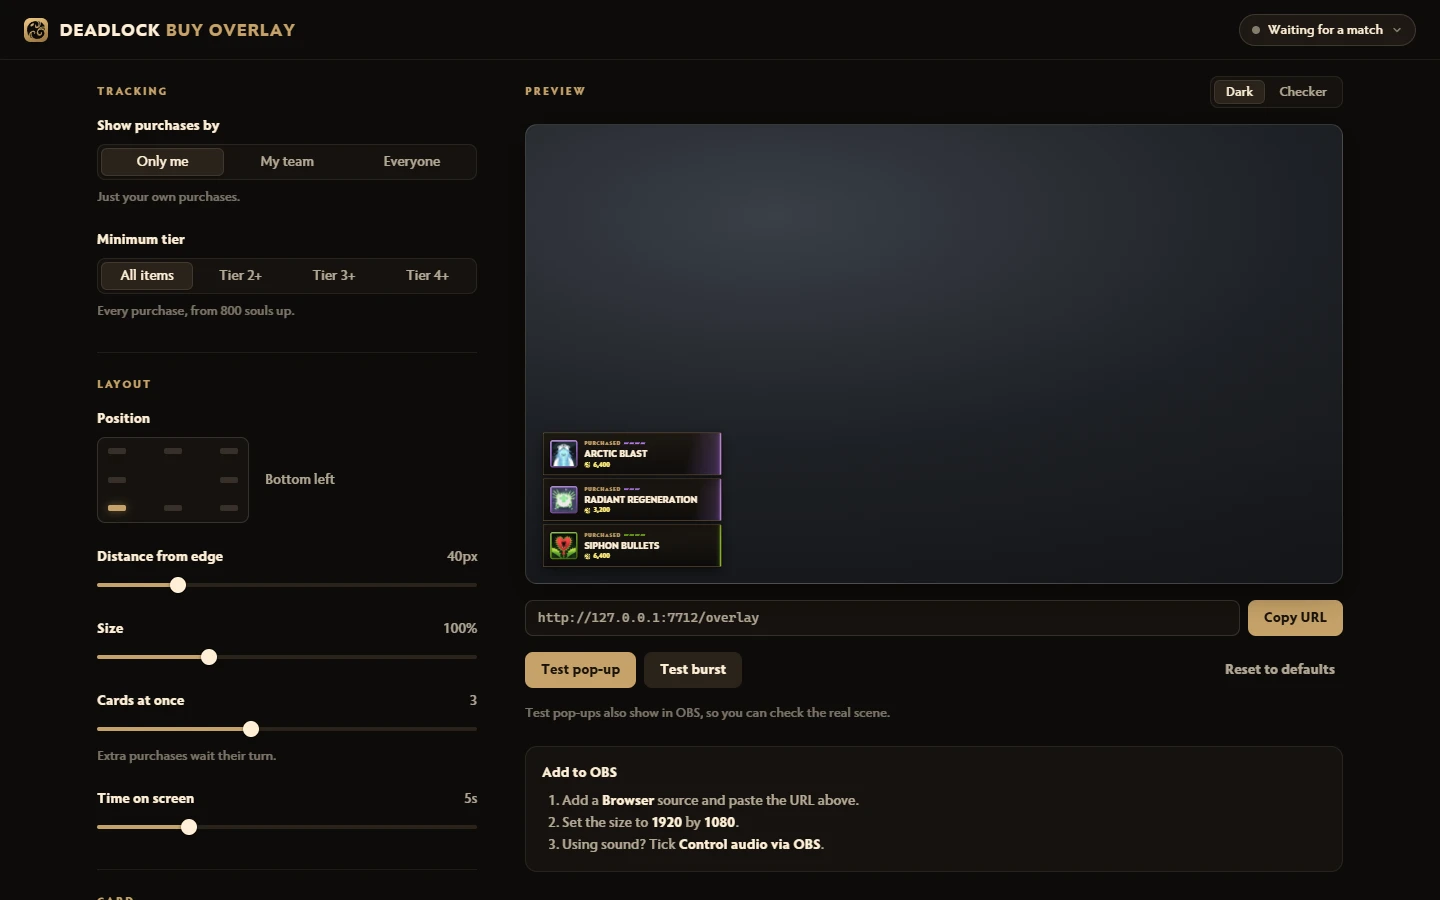
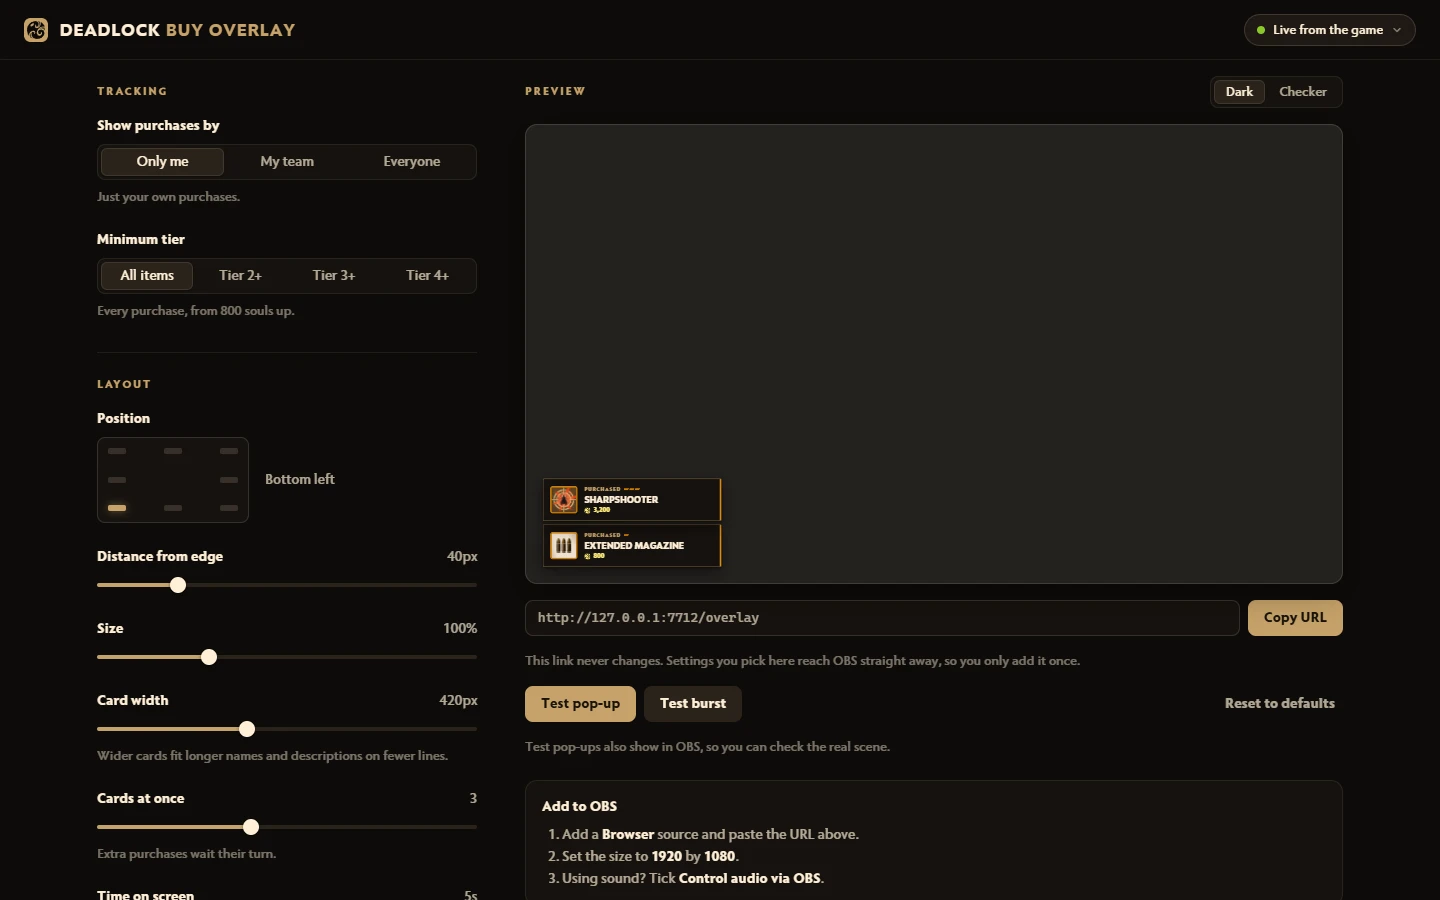
Show v0.3.0 screenshots and instant pop-ups
Replace the screenshots with the flat-colour look, add the new layouts
image, add the -condebug step to the install guide, and describe the
optional bridge mod for instant pop-ups.

diff --git a/README.md b/README.md
@@ -8,6 +8,10 @@ Pick a style, where the cards sit, how long they stay, and what they show:
 
 ![Deadlock, Glass and Minimal card styles](screenshots/styles.webp)
 
+Use a full card, one slim line, or just the item icon, with square, rounded, pill or angled corners:
+
+![Full, Compact and Icon only layouts](screenshots/layouts.webp)
+
 | Control page | First-run setup |
 | --- | --- |
 | ![Control page with settings and live preview](screenshots/control.webp) | ![Setup step for choosing what pops up](screenshots/setup.webp) |
@@ -17,12 +21,19 @@ Pick a style, where the cards sit, how long they stay, and what they show:
 1. Download the zip from the [latest release](https://github.com/negativeblueprint/deadlock-buy-overlay-releases/releases/latest).
 2. Extract it anywhere, for example your Documents folder.
 3. Double-click `Start.cmd`. If Windows says it protected your PC, click **More info**, then **Run anyway**.
-4. A browser tab opens and walks you through setup, including adding the overlay to OBS.
+4. A browser tab opens and walks you through setup, including adding the overlay to OBS. You add the link once, and later changes on the control page show up in OBS by themselves.
+5. In Steam, right-click Deadlock, choose **Properties**, and add `-condebug` under **Launch Options**. That lets the overlay find your match. Setup shows a green tick once it is set.
 
 If Node.js is not installed, `Start.cmd` installs it for you. New versions show an **Update now** button in the overlay's control page, so you only download once.
 
+## Instant pop-ups
+
+The zip also holds an optional mod, `mod/buy_overlay_bridge.vpk`. It reads the shop's Recent Purchases list, so cards appear within a second of the purchase, in every match. The control page then says **Live from the game**.
+
+It needs mods turned on through a mod manager such as Deadlock Mod Manager. Add the file there, or copy it into the folder your mod manager loads, named `pakNN_dir.vpk` with an `NN` no other mod uses. The mod only reads, and nothing on screen changes.
+
 ## Good to know
 
-Cards come from the match's spectator broadcast, so they appear a few seconds to tens of seconds after the purchase. Valve does not broadcast every match; when it skips yours, the control page tells you.
+Without the mod, cards come from the match's spectator broadcast, so they appear a few seconds to tens of seconds after the purchase. Valve does not broadcast every match; when it skips yours, the control page tells you.
 
 This repo only holds the downloads.
